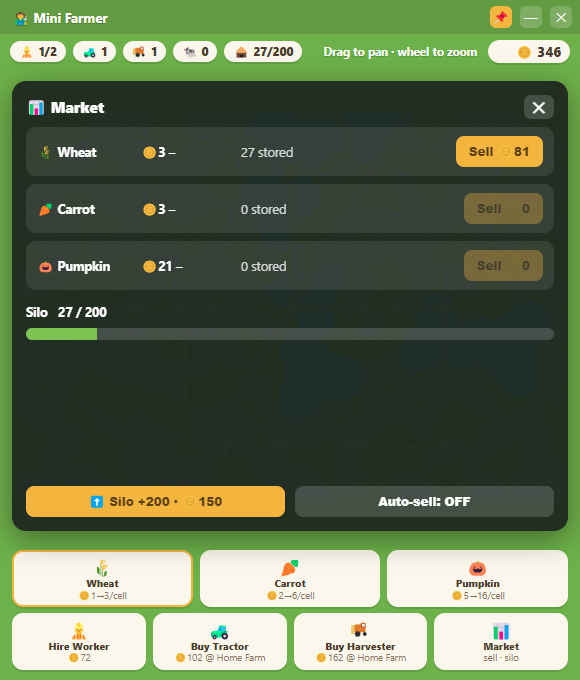
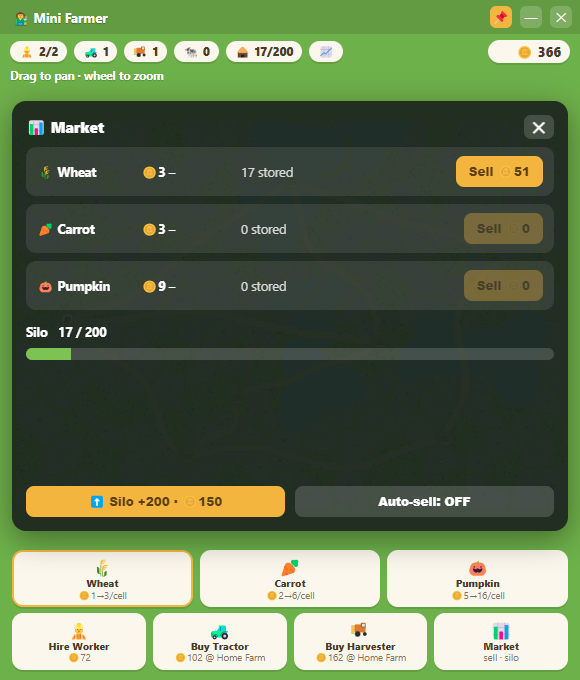
Balance pass, stats panel, spoilage, organic roads, 7 farms
- Rebalance animals: ~40% lower, differentiated income (cow/sheep/
  chicken), smaller herds, pricier pastures so passive income no
  longer outclasses active farming
- Vehicles prioritize fields near their home farm (logistics matter)
- Statistics panel: earned/spent/net, harvested/sold/planted/spoiled,
  holdings; opened from a new HUD chip
- Full silo now stops harvesting (no forced auto-sell); crops left
  standing too long spoil (and brown visually) — opt-in auto-sell kept
- Organic curved roads + wavy highway instead of straight L-shapes
- Two more farm locations (Hill, Valley) — seven total
- Refresh README + screenshots (adds stats panel shot)

diff --git a/index.html b/index.html
@@ -33,7 +33,10 @@
   .btn .em { font-size: 17px; height: 20px; display: flex; align-items: center; justify-content: center; }
   .btn .nm { font-size: 10px; font-weight: 800; margin-top: 1px; }
   .btn .sub { font-size: 9.5px; color: #8a7256; }
-  #market { position: absolute; left: 12px; right: 12px; top: 12px; bottom: 12px; display: none; flex-direction: column; gap: 8px; padding: 14px; border-radius: 14px; background: rgba(28,38,30,.94); color: #fff; z-index: 5; box-shadow: 0 8px 30px rgba(0,0,0,.4); }
+  #market, #stats { position: absolute; left: 12px; right: 12px; top: 12px; bottom: 12px; display: none; flex-direction: column; gap: 8px; padding: 14px; border-radius: 14px; background: rgba(28,38,30,.94); color: #fff; z-index: 5; box-shadow: 0 8px 30px rgba(0,0,0,.4); }
+  .st-row { display: flex; align-items: center; justify-content: space-between; gap: 8px; padding: 6px 11px; background: rgba(255,255,255,.07); border-radius: 9px; font-size: 12.5px; font-weight: 600; }
+  .st-val { font-weight: 800; }
+  .st-div { height: 1px; background: rgba(255,255,255,.14); margin: 2px 0; }
   .mkt-head { display: flex; align-items: center; font-weight: 800; font-size: 15px; }
   .mkt-close { margin-left: auto; cursor: pointer; background: rgba(255,255,255,.16); border-radius: 7px; padding: 2px 9px; }
   .mkt-close:hover { background: #e5645c; }
@@ -68,6 +71,7 @@
       <div class="chip"><span id="hvIcon"></span> <span id="harvesters">0</span></div>
       <div class="chip">🐄 <span id="animals">0</span></div>
       <div class="chip silo" id="siloChip" title="Open market">🛖 <span id="silo">0/200</span></div>
+      <div class="chip" id="statsChip" title="Statistics">📈</div>
       <div class="hud-spacer"></div>
       <div class="chip coins">🪙 <span id="coins">0</span></div>
     </div>
@@ -97,28 +101,31 @@
   const CELL = 16;
   const GRID_W = 240, GRID_H = 170;
   const WORLD = { w: GRID_W * CELL, h: GRID_H * CELL };
-  const WORK = 0.28, VSPEED = 96, ROAD_MULT = 1.7;
+  const WORK = 0.28, VSPEED = 96, ROAD_MULT = 1.7, ROT_MULT = 1.8;
   const CROPS = {
     wheat:   { name: 'Wheat',   emoji: '🌾', cost: 1, sell: 3,  grow: 60,  color: '#e3c565' },
     carrot:  { name: 'Carrot',  emoji: '🥕', cost: 2, sell: 6,  grow: 180, color: '#e8863f' },
     pumpkin: { name: 'Pumpkin', emoji: '🎃', cost: 5, sell: 16, grow: 420, color: '#d9772e' },
   };
   const SEEDS = ['wheat', 'carrot', 'pumpkin'];
+  // per-animal income ≈ value/every coins/sec (cow .13, sheep .11, chicken .09)
   const ANIMALS = {
-    cow:     { emoji: '🐄', value: 3, every: 15, product: 'milk' },
-    sheep:   { emoji: '🐑', value: 2, every: 10, product: 'wool' },
-    chicken: { emoji: '🐔', value: 1, every: 5,  product: 'eggs' },
+    cow:     { emoji: '🐄', value: 4, every: 30, product: 'milk' },
+    sheep:   { emoji: '🐑', value: 2, every: 18, product: 'wool' },
+    chicken: { emoji: '🐔', value: 1, every: 11, product: 'eggs' },
   };
   const workerPrice    = (n) => Math.round(30 * Math.pow(1.55, n));
   const tractorPrice   = (n) => Math.round(60 * Math.pow(1.7, n));
   const harvesterPrice = (n) => Math.round(95 * Math.pow(1.7, n));
 
   const FARMS = [
-    { cx: 22, cy: 86,  price: 0,    name: 'Home Farm' },
-    { cx: 120, cy: 26, price: 900,  name: 'North Farm' },
-    { cx: 208, cy: 60, price: 1400, name: 'East Farm' },
-    { cx: 74, cy: 146, price: 1700, name: 'South Farm' },
+    { cx: 22, cy: 86,   price: 0,    name: 'Home Farm' },
+    { cx: 120, cy: 26,  price: 900,  name: 'North Farm' },
+    { cx: 208, cy: 60,  price: 1400, name: 'East Farm' },
+    { cx: 74, cy: 146,  price: 1700, name: 'South Farm' },
     { cx: 186, cy: 138, price: 2200, name: 'Lake Farm' },
+    { cx: 158, cy: 96,  price: 2600, name: 'Hill Farm' },
+    { cx: 96, cy: 120,  price: 3000, name: 'Valley Farm' },
   ];
 
   // ---------- World generation (deterministic) ----------
@@ -173,30 +180,35 @@
       kind[idx(cx, cy)] = border ? 0 : 1;
     }
 
-    // clean road network: highway + farm connectors (carve through everything but farms)
-    const carve = (x0, y0, x1, y1, w, k) => {
-      const stepX = () => { for (let x = Math.min(x0, x1); x <= Math.max(x0, x1); x++) paint(x, y0, w, k); };
-      const stepY = () => { for (let y = Math.min(y0, y1); y <= Math.max(y0, y1); y++) paint(x1, y, w, k); };
-      stepX(); stepY();
-    };
-    const paint = (cx, cy, w, k) => {
-      for (let dx = -w; dx <= w; dx++) for (let dy = -w; dy <= w; dy++) {
-        const x = cx + dx, y = cy + dy;
+    // organic road network: wavy highway + curved farm connectors
+    const paint = (cx, cy, rad, k) => {
+      const ix = Math.round(cx), iy = Math.round(cy);
+      for (let dx = -rad; dx <= rad; dx++) for (let dy = -rad; dy <= rad; dy++) {
+        if (Math.abs(dx) + Math.abs(dy) > rad) continue;       // diamond brush → 4-connected
+        const x = ix + dx, y = iy + dy;
         if (x < 0 || y < 0 || x >= GW || y >= GH) continue;
         if (kind[idx(x, y)] === 5) continue;
         kind[idx(x, y)] = k;
       }
     };
-    // diagonal highway
-    const hx0 = GW * 0.72, hy0 = -4, hx1 = GW * 0.28, hy1 = GH + 4, hdx = hx1 - hx0, hdy = hy1 - hy0, hlen = Math.hypot(hdx, hdy);
-    for (let cy = 0; cy < GH; cy++) for (let cx = 0; cx < GW; cx++) {
-      if (kind[idx(cx, cy)] === 5) continue;
-      const d = Math.abs((cx - hx0) * hdy - (cy - hy0) * hdx) / hlen;
-      if (d < 1.6) kind[idx(cx, cy)] = 4;
+    // curved road between two points (sine offset, tapering to 0 at the ends)
+    const carveRoad = (x0, y0, x1, y1, k, ph) => {
+      const len = Math.hypot(x1 - x0, y1 - y0) || 1, steps = Math.ceil(len * 1.2);
+      const nx = -(y1 - y0) / len, ny = (x1 - x0) / len;
+      for (let i = 0; i <= steps; i++) {
+        const t = i / steps, env = Math.sin(t * Math.PI);
+        const off = (7 * Math.sin(t * 3.1 + ph) + 4 * Math.sin(t * 6.9 + ph * 1.7)) * env;
+        paint(x0 + (x1 - x0) * t + nx * off, y0 + (y1 - y0) * t + ny * off, 1, k);
+      }
+    };
+    // wavy diagonal highway
+    for (let cy = 0; cy < GH; cy++) {
+      const t = cy / GH, xc = GW * 0.72 + (GW * 0.28 - GW * 0.72) * t + 7 * Math.sin(cy * 0.11) + 3.5 * Math.sin(cy * 0.045 + 1.3);
+      for (let cx = 0; cx < GW; cx++) { if (kind[idx(cx, cy)] === 5) continue; if (Math.abs(cx - xc) < 1.7) kind[idx(cx, cy)] = 4; }
     }
-    // connect farms with dirt roads (spanning-ish network)
-    const links = [[0, 1], [1, 2], [0, 3], [3, 4], [2, 4], [0, 2]];
-    for (const [a, b] of links) carve(FARMS[a].cx, FARMS[a].cy, FARMS[b].cx, FARMS[b].cy, 0, 3);
+    // connect the farms with organic dirt roads
+    const links = [[0, 1], [1, 2], [0, 3], [3, 4], [2, 4], [0, 5], [5, 6], [3, 6], [1, 5]];
+    links.forEach(([a, b], i) => carveRoad(FARMS[a].cx, FARMS[a].cy, FARMS[b].cx, FARMS[b].cy, 3, i * 1.7 + 0.5));
 
     // field components (avoid grass/road/water/wild)
     const seen = new Uint8Array(GW * GH), comps = [];
@@ -240,7 +252,7 @@
   function centroidOf(cells) { let sx = 0, sy = 0; for (const [x, y] of cells) { sx += x; sy += y; } return [sx / cells.length, sy / cells.length]; }
 
   // ---------- State ----------
-  const SAVE_KEY = 'minifarmer.v8';
+  const SAVE_KEY = 'minifarmer.v9';
   let state, fields, vehicles, cellMap, critters;
   const cam = { x: 0, y: 0 };
   let zoom = 0.42;
@@ -249,7 +261,7 @@
     const [cx, cy] = f.centroid;
     const d = Math.hypot(cx - FARMS[0].cx, cy - FARMS[0].cy), diag = Math.hypot(GRID_W, GRID_H);
     let p = f.cells.length * 1.7 * (0.6 + 1.9 * d / diag);
-    if (f.type === 'pasture') p += f.herd * 55;
+    if (f.type === 'pasture') p += f.herd * 90;
     return Math.max(20, Math.round(p / 5) * 5);
   }
   function buildFields(fromSave) {
@@ -273,7 +285,7 @@
       f.centroid = [sx / f.cells.length, sy / f.cells.length];
       const h = (fi * 2654435761) >>> 0;
       f.type = (h % 5 === 2 && f.cells.length >= 20 && f.cells.length <= 140) ? 'pasture' : 'crop';
-      if (f.type === 'pasture') { f.animal = ['cow', 'sheep', 'chicken'][h % 3]; f.herd = Math.max(3, Math.min(12, Math.round(f.cells.length / 10))); }
+      if (f.type === 'pasture') { f.animal = ['cow', 'sheep', 'chicken'][h % 3]; f.herd = Math.max(2, Math.min(10, Math.round(f.cells.length / 12))); }
       f.price = fieldPrice(f);
       f.edges = [];
       f.cells.forEach(c => {
@@ -295,7 +307,8 @@
     try {
       const s = JSON.parse(localStorage.getItem(SAVE_KEY));
       if (s && Array.isArray(s.fields)) {
-        state = { coins: s.coins, seed: s.seed || 'wheat', workers: s.workers || 2, farmsOwned: s.farmsOwned || [true, false, false, false, false], activeFarm: s.activeFarm || 0, silo: s.silo || { wheat: 0, carrot: 0, pumpkin: 0 }, siloCap: s.siloCap || 200, siloUp: s.siloUp || 0, autoSell: !!s.autoSell };
+        state = { coins: s.coins, seed: s.seed || 'wheat', workers: s.workers || 2, farmsOwned: s.farmsOwned || [true], activeFarm: s.activeFarm || 0, silo: s.silo || { wheat: 0, carrot: 0, pumpkin: 0 }, siloCap: s.siloCap || 200, siloUp: s.siloUp || 0, autoSell: !!s.autoSell, stats: s.stats || { earned: 0, spent: 0, harvested: 0, sold: 0, planted: 0, rotted: 0 } };
+        while (state.farmsOwned.length < FARMS.length) state.farmsOwned.push(false);
         buildFields(s.fields);
         vehicles = (s.vehicles || []).map(v => ({ type: v.type, farm: v.farm || 0, x: v.x, y: v.y, tx: v.x, ty: v.y, state: 'parked', crewed: false, cell: null, timer: 0, angle: 0 }));
         if (!vehicles.length) vehicles = defaultVehicles();
@@ -305,7 +318,7 @@
         return;
       }
     } catch (_) {}
-    state = { coins: 400, seed: 'wheat', workers: 2, farmsOwned: [true, false, false, false, false], activeFarm: 0, silo: { wheat: 0, carrot: 0, pumpkin: 0 }, siloCap: 200, siloUp: 0, autoSell: false };
+    state = { coins: 400, seed: 'wheat', workers: 2, farmsOwned: FARMS.map((_, i) => i === 0), activeFarm: 0, silo: { wheat: 0, carrot: 0, pumpkin: 0 }, siloCap: 200, siloUp: 0, autoSell: false, stats: { earned: 0, spent: 0, harvested: 0, sold: 0, planted: 0, rotted: 0 } };
     buildFields(null);
     // free starter: smallest crop field close to home
     let best = -1, bs = Infinity;
@@ -323,7 +336,7 @@
     try {
       localStorage.setItem(SAVE_KEY, JSON.stringify({
         coins: state.coins, seed: state.seed, workers: state.workers, farmsOwned: state.farmsOwned, activeFarm: state.activeFarm,
-        silo: state.silo, siloCap: state.siloCap, siloUp: state.siloUp, autoSell: state.autoSell,
+        silo: state.silo, siloCap: state.siloCap, siloUp: state.siloUp, autoSell: state.autoSell, stats: state.stats,
         cam: { x: cam.x, y: cam.y, z: zoom },
         fields: fields.map(f => ({ name: f.name, plannedCrop: f.plannedCrop, owned: f.owned, lastPay: f.lastPay, cells: f.cells.map(c => ({ cx: c.cx, cy: c.cy, crop: c.crop, plantedAt: c.plantedAt })) })),
         vehicles: vehicles.map(v => ({ type: v.type, farm: v.farm, x: v.x, y: v.y })),
@@ -342,6 +355,7 @@
   const el = (id) => document.getElementById(id);
   function renderHud() { el('coins').textContent = Math.floor(state.coins); el('workers').textContent = freeWorkers() + '/' + state.workers; el('tractors').textContent = countType('tractor'); el('harvesters').textContent = countType('harvester'); el('animals').textContent = ownedAnimals(); el('silo').textContent = siloUsed() + '/' + state.siloCap; }
   el('siloChip').style.cursor = 'pointer'; el('siloChip').onclick = () => toggleMarket();
+  el('statsChip').style.cursor = 'pointer'; el('statsChip').onclick = () => toggleStats();
   const seedsRow = el('seeds');
   SEEDS.forEach(id => {
     const c = CROPS[id];
@@ -361,11 +375,11 @@
     bTractor.innerHTML = `<div class="em">🚜</div><div class="nm">Buy Tractor</div><div class="sub">🪙${tractorPrice(countType('tractor'))} @ ${FARMS[state.activeFarm].name}</div>`;
     bHarv.innerHTML = `<div class="em">${HV_SVG(20)}</div><div class="nm">Buy Harvester</div><div class="sub">🪙${harvesterPrice(countType('harvester'))} @ ${FARMS[state.activeFarm].name}</div>`;
   }
-  function hireWorker() { const p = workerPrice(state.workers); if (state.coins < p) return flash('Not enough coins to hire'); state.coins -= p; state.workers++; renderHud(); renderDock(); save(); }
+  function hireWorker() { const p = workerPrice(state.workers); if (state.coins < p) return flash('Not enough coins to hire'); state.coins -= p; state.stats.spent += p; state.workers++; renderHud(); renderDock(); save(); }
   function buyVehicle(type) {
     const p = type === 'tractor' ? tractorPrice(countType('tractor')) : harvesterPrice(countType('harvester'));
     if (state.coins < p) return flash('Not enough coins for ' + type);
-    state.coins -= p;
+    state.coins -= p; state.stats.spent += p;
     const fi = state.activeFarm, slot = vehicles.filter(v => v.farm === fi).length, pos = farmPark(fi, slot);
     vehicles.push({ type, farm: fi, x: pos.x, y: pos.y, tx: pos.x, ty: pos.y, state: 'parked', crewed: false, cell: null, timer: 0, angle: 0 });
     flash(`${type === 'tractor' ? '🚜 Tractor' : '🌾 Harvester'} delivered to ${FARMS[fi].name}`);
@@ -506,15 +520,20 @@
   }
 
   function findWork(v) {
+    // prioritize fields near the vehicle's home farm, with a nudge toward its current spot
+    const hx = FARMS[v.farm].cx * CELL, hy = FARMS[v.farm].cy * CELL;
+    const siloRoom = siloUsed() < state.siloCap;
     let best = null, bd = Infinity;
     for (const f of fields) {
       if (!f.owned || f.type !== 'crop') continue;
       for (const c of f.cells) {
         if (c.reserved) continue;
-        let ok = v.type === 'tractor' ? (!c.crop && state.coins >= CROPS[f.plannedCrop].cost) : ripe(c);
+        const ok = v.type === 'tractor' ? (!c.crop && state.coins >= CROPS[f.plannedCrop].cost) : (siloRoom && ripe(c));
         if (!ok) continue;
-        const d = (c.cx * CELL - v.x) ** 2 + (c.cy * CELL - v.y) ** 2;
-        if (d < bd) { bd = d; best = c; }
+        const dh = (c.cx * CELL - hx) ** 2 + (c.cy * CELL - hy) ** 2;
+        const dv = (c.cx * CELL - v.x) ** 2 + (c.cy * CELL - v.y) ** 2;
+        const score = dh + 0.6 * dv;
+        if (score < bd) { bd = score; best = c; }
       }
     }
     return best;
@@ -524,12 +543,12 @@
   function crewParked() { for (const v of vehicles) { if (v.state !== 'parked' || v.crewed) continue; if (freeWorkers() <= 0) break; const c = findWork(v); if (c) { v.crewed = true; assignCell(v, c); } } }
   function applyWork(v) {
     const c = v.cell; if (!c) return;
-    if (v.type === 'tractor') { const crop = fields[c.fi].plannedCrop, def = CROPS[crop]; if (!c.crop && state.coins >= def.cost) { state.coins -= def.cost; c.crop = crop; c.plantedAt = Date.now(); } }
-    else if (ripe(c)) {
-      const crop = c.crop, cc = cellCenter(c);
-      if (siloUsed() < state.siloCap) { state.silo[crop]++; }
-      else { const pay = price(crop); state.coins += pay; pops.push({ x: cc.x, y: cc.y, text: '+' + pay, life: 1 }); }
-      c.crop = null;
+    if (v.type === 'tractor') {
+      const crop = fields[c.fi].plannedCrop, def = CROPS[crop];
+      if (!c.crop && state.coins >= def.cost) { state.coins -= def.cost; state.stats.spent += def.cost; state.stats.planted++; c.crop = crop; c.plantedAt = Date.now(); }
+    } else if (ripe(c) && siloUsed() < state.siloCap) {
+      // full silo → leave the crop standing (it will spoil if never harvested)
+      state.silo[c.crop]++; state.stats.harvested++; c.crop = null;
     }
     c.reserved = false; v.cell = null; renderHud();
   }
@@ -549,7 +568,7 @@
       if (f.type !== 'pasture' || !f.owned) continue;
       if (!f.lastPay) f.lastPay = now;
       const def = ANIMALS[f.animal], per = def.every * 1000, n = Math.floor((now - f.lastPay) / per);
-      if (n > 0) { const gain = n * f.herd * def.value; state.coins += gain; f.lastPay += n * per; pops.push({ x: f.centroid[0] * CELL, y: f.centroid[1] * CELL, text: '+' + gain + ' ' + def.emoji, life: 1 }); renderHud(); }
+      if (n > 0) { const gain = n * f.herd * def.value; state.coins += gain; state.stats.earned += gain; f.lastPay += n * per; pops.push({ x: f.centroid[0] * CELL, y: f.centroid[1] * CELL, text: '+' + gain + ' ' + def.emoji, life: 1 }); renderHud(); }
     }
   }
   function updateCritters(dt) {
@@ -565,14 +584,21 @@
   function price(crop, at) { const c = CROPS[crop], p = PRICE[crop], now = at || Date.now(); const mult = 0.55 + 0.8 * (0.5 + 0.5 * Math.sin(now / p.period + p.phase)); return Math.max(1, Math.round(c.sell * mult)); }
   function siloUsed() { return state.silo.wheat + state.silo.carrot + state.silo.pumpkin; }
   function siloUpgradeCost() { return Math.round(150 * Math.pow(1.6, state.siloUp)); }
-  function sell(crop) { const q = state.silo[crop]; if (!q) return; const gain = q * price(crop); state.coins += gain; state.silo[crop] = 0; flash(`Sold ${q} ${CROPS[crop].emoji} for 🪙${gain}`); renderHud(); if (marketOpen) renderMarket(); save(); }
-  function upgradeSilo() { const c = siloUpgradeCost(); if (state.coins < c) return flash('Not enough coins to upgrade silo'); state.coins -= c; state.siloCap += 200; state.siloUp++; renderHud(); renderMarket(); save(); }
+  function sell(crop) { const q = state.silo[crop]; if (!q) return; const gain = q * price(crop); state.coins += gain; state.stats.earned += gain; state.stats.sold += q; state.silo[crop] = 0; flash(`Sold ${q} ${CROPS[crop].emoji} for 🪙${gain}`); renderHud(); if (marketOpen) renderMarket(); save(); }
+  function upgradeSilo() { const c = siloUpgradeCost(); if (state.coins < c) return flash('Not enough coins to upgrade silo'); state.coins -= c; state.stats.spent += c; state.siloCap += 200; state.siloUp++; renderHud(); renderMarket(); save(); }
   let mktT = 0;
   function updateMarket(dt) {
     mktT += dt; if (mktT < 1) return; mktT = 0;
+    // optional auto-sell only when the player enabled it and prices are good
     if (state.autoSell) for (const crop of SEEDS) if (state.silo[crop] > 0 && price(crop) >= CROPS[crop].sell * 1.1) sell(crop);
-    if (siloUsed() >= state.siloCap) { let big = SEEDS[0]; for (const c of SEEDS) if (state.silo[c] > state.silo[big]) big = c; if (state.silo[big] > 0) sell(big); }
+    // crops left standing too long spoil (esp. when the silo is full)
+    const now = Date.now();
+    for (const f of fields) {
+      if (!f.owned || f.type !== 'crop') continue;
+      for (const c of f.cells) if (c.crop && !c.reserved && (now - c.plantedAt) > CROPS[c.crop].grow * 1000 * ROT_MULT) { c.crop = null; state.stats.rotted++; }
+    }
     if (marketOpen) renderMarket();
+    if (statsOpen) renderStats();
   }
 
   // market panel (overlay)
@@ -589,6 +615,31 @@
     market.querySelectorAll('.mkt-sell').forEach(b => b.onclick = () => sell(b.dataset.crop));
     market.querySelector('.mkt-up').onclick = upgradeSilo;
     market.querySelector('.mkt-auto').onclick = () => { state.autoSell = !state.autoSell; renderMarket(); save(); };
+  }
+
+  // stats panel (overlay)
+  const statsPanel = document.createElement('div'); statsPanel.id = 'stats'; document.getElementById('stage').appendChild(statsPanel);
+  let statsOpen = false;
+  function toggleStats(v) { statsOpen = v === undefined ? !statsOpen : v; statsPanel.style.display = statsOpen ? 'flex' : 'none'; if (statsOpen) renderStats(); }
+  function renderStats() {
+    const s = state.stats, net = Math.round(s.earned - s.spent);
+    const cropF = fields.filter(f => f.owned && f.type === 'crop').length, pastF = fields.filter(f => f.owned && f.type === 'pasture').length;
+    const row = (label, val) => `<div class="st-row"><span>${label}</span><span class="st-val">${val}</span></div>`;
+    statsPanel.innerHTML = `<div class="mkt-head">📈 Statistics <span class="mkt-close">✕</span></div>`
+      + row('💰 Total earned', '🪙' + Math.round(s.earned))
+      + row('💸 Total spent', '🪙' + Math.round(s.spent))
+      + row('📊 Net profit', (net >= 0 ? '+' : '') + '🪙' + net)
+      + row('🪙 Coins on hand', '🪙' + Math.floor(state.coins))
+      + `<div class="st-div"></div>`
+      + row('🌾 Crops harvested', s.harvested)
+      + row('🛒 Crops sold', s.sold)
+      + row('🌱 Cells planted', s.planted)
+      + row('🥀 Crops spoiled', s.rotted)
+      + `<div class="st-div"></div>`
+      + row('🚜 Fields owned', cropF)
+      + row('🐄 Pastures owned', pastF)
+      + row('🏠 Farms owned', state.farmsOwned.filter(Boolean).length + ' / ' + FARMS.length);
+    statsPanel.querySelector('.mkt-close').onclick = () => toggleStats(false);
   }
 
   // ---------- Input ----------
@@ -613,13 +664,13 @@
     const b = canvas.getBoundingClientRect(), w = toWorld(e.clientX - b.left, e.clientY - b.top), fa = farmAt(w.x, w.y);
     if (fa >= 0) {
       if (state.farmsOwned[fa]) { state.activeFarm = fa; flash(`${FARMS[fa].name} is now your active farm`); renderDock(); save(); }
-      else if (state.coins >= FARMS[fa].price) { state.coins -= FARMS[fa].price; state.farmsOwned[fa] = true; state.activeFarm = fa; flash(`🏠 ${FARMS[fa].name} purchased! Machines are bought here now`); renderHud(); renderDock(); save(); }
+      else if (state.coins >= FARMS[fa].price) { state.coins -= FARMS[fa].price; state.stats.spent += FARMS[fa].price; state.farmsOwned[fa] = true; state.activeFarm = fa; flash(`🏠 ${FARMS[fa].name} purchased! Machines are bought here now`); renderHud(); renderDock(); save(); }
       else flash(`${FARMS[fa].name} costs 🪙${FARMS[fa].price}`);
       return;
     }
     const fi = fieldAt(w.x, w.y); if (fi < 0) return; const f = fields[fi];
     if (!f.owned) {
-      if (state.coins >= f.price) { state.coins -= f.price; f.owned = true; if (f.type === 'pasture') { f.lastPay = Date.now(); flash(`Pasture ${f.name}: ${f.herd} ${ANIMALS[f.animal].emoji} now earn for you`); } else flash(`Field ${f.name} purchased (${f.cells.length} cells)`); renderHud(); save(); }
+      if (state.coins >= f.price) { state.coins -= f.price; state.stats.spent += f.price; f.owned = true; if (f.type === 'pasture') { f.lastPay = Date.now(); flash(`Pasture ${f.name}: ${f.herd} ${ANIMALS[f.animal].emoji} now earn for you`); } else flash(`Field ${f.name} purchased (${f.cells.length} cells)`); renderHud(); save(); }
       else flash(`${f.type === 'pasture' ? 'Pasture' : 'Field'} ${f.name} costs 🪙${f.price}`);
     } else if (f.type === 'crop') { f.plannedCrop = state.seed; flash(`Field ${f.name} → plant ${CROPS[state.seed].emoji}`); save(); }
     else { const d = ANIMALS[f.animal]; flash(`Pasture ${f.name}: ${f.herd} ${d.emoji} · +🪙${f.herd * d.value}/${d.every}s`); }
@@ -677,7 +728,7 @@
       let col;
       if (f.type === 'pasture') col = ((c.cx + c.cy) & 1) ? '#8ccb63' : '#84c45c';
       else if (!c.crop) col = '#7a5236';
-      else if (ripe(c)) col = CROPS[c.crop].color;
+      else if (ripe(c)) { const gr = CROPS[c.crop].grow * 1000, over = (Date.now() - c.plantedAt - gr) / (gr * (ROT_MULT - 1)); col = over > 0.05 ? mix(CROPS[c.crop].color, '#5f4f2c', Math.min(1, over) * 0.8) : CROPS[c.crop].color; }
       else col = mix('#6b8f3f', CROPS[c.crop].color, growth(c) * 0.85);
       ctx.fillStyle = col; ctx.fillRect(x, y, CELL, CELL);
       if (f.type === 'crop' && ripe(c)) { ctx.fillStyle = 'rgba(255,255,255,.22)'; ctx.fillRect(x + 3, y + 3, CELL - 8, CELL - 8); }

diff --git a/tools/capture.js b/tools/capture.js
@@ -46,5 +46,10 @@ app.whenReady().then(async () => {
   await sleep(600);
   await shot('screenshot-market.png');
 
+  // 4) statistics panel
+  await js(`document.querySelector('#market .mkt-close').click(); document.getElementById('statsChip').click()`);
+  await sleep(600);
+  await shot('screenshot-stats.png');
+
   app.quit();
 });

diff --git a/README.md b/README.md
@@ -6,19 +6,20 @@ No engine, no frameworks: one HTML file of vanilla canvas JavaScript inside a fr
 
 ![The full parcel map](docs/screenshot-map.png)
 
-| Managing the farm | The market |
-| :---: | :---: |
-| ![Home farm, fields, roads and a pasture](docs/screenshot-farm.png) | ![Fluctuating market and silo](docs/screenshot-market.png) |
+| Managing the farm | The market | Statistics |
+| :---: | :---: | :---: |
+| ![Home farm, fields, roads and a pasture](docs/screenshot-farm.png) | ![Fluctuating market and silo](docs/screenshot-market.png) | ![Statistics panel](docs/screenshot-stats.png) |
 
 ## Features
 
-- 🗺️ **Big procedural world** — a ~6× map of naturally-shaped field parcels packed between dirt roads, a highway, lakes, and forest valleys. Deterministic layout, so it's the same world every time.
-- 🧭 **Buy land & farms** — unowned parcels are a cool blue-gray; click to buy (bigger + farther = pricier). Own several of the five **farm locations** and base your machines where the work is.
-- 🚜 **Autonomous crews** — you never drive. Workers board tractors (planting) and harvesters (reaping) and work fields cell by cell. Bigger fields take longer, or more machines.
+- 🗺️ **Big procedural world** — a ~6× map of naturally-shaped field parcels packed between winding dirt roads, a highway, lakes, and forest valleys. Deterministic layout, so it's the same world every time.
+- 🧭 **Buy land & farms** — unowned parcels are a cool blue-gray; click to buy (bigger + farther = pricier). Own several of the **seven farm locations** and base your machines where the work is.
+- 🚜 **Autonomous crews** — you never drive. Workers board tractors (planting) and harvesters (reaping) and work fields cell by cell, prioritizing land near their home farm. Bigger fields take longer, or more machines.
 - 👷 **Workers ≠ machines** — every vehicle needs a free worker. Balancing your labor pool against your fleet is the core decision.
 - 🛣️ **Road logistics** — vehicles path-find along the road network (and drive faster on it), routing around lakes. Where you station your machines genuinely matters.
-- 🏬 **Silo & market** — harvests fill a silo instead of paying instantly. Each crop's price drifts on its own cycle, so you decide *when to sell*. Upgrade silo capacity, or flip on auto-sell to stay hands-off.
+- 🏬 **Silo & market** — harvests fill a silo instead of paying instantly. Each crop's price drifts on its own cycle, so you decide *when to sell*. Upgrade silo capacity, or flip on auto-sell to stay hands-off. When the silo fills, harvesting pauses — and crops left standing too long spoil.
 - 🐄 **Pastures & animals** — some parcels come with wandering cows, sheep, or chickens. Buy the pasture and they earn passively (milk, wool, eggs), even while the app is closed (capped at 4 h).
+- 📈 **Statistics** — track total earned, spent, net profit, crops harvested / sold / planted / spoiled, and holdings.
 - 💾 **Runs unattended** — real-time (and offline) growth, auto-save, and always-on-top so it keeps working while you don't.
 
 ## Installation